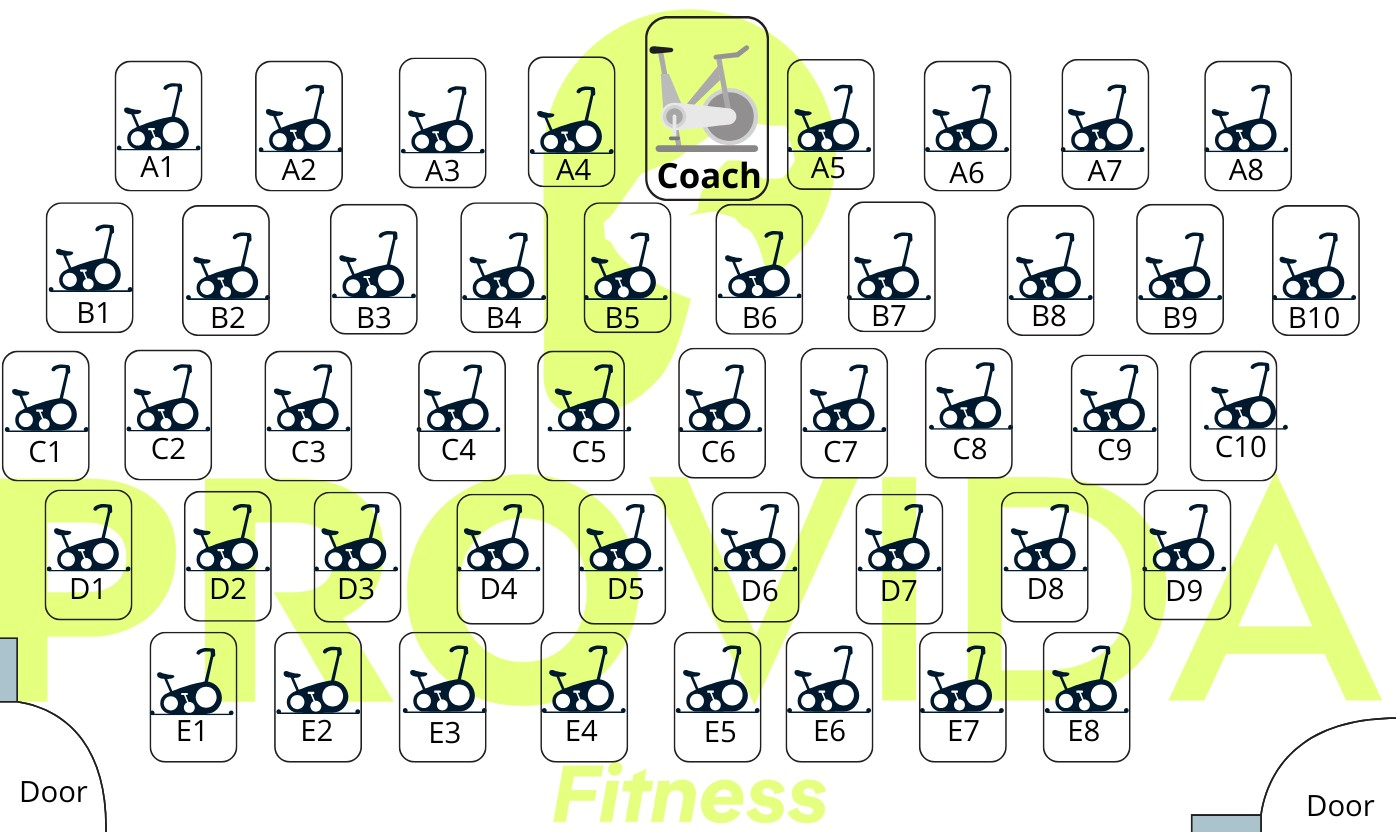
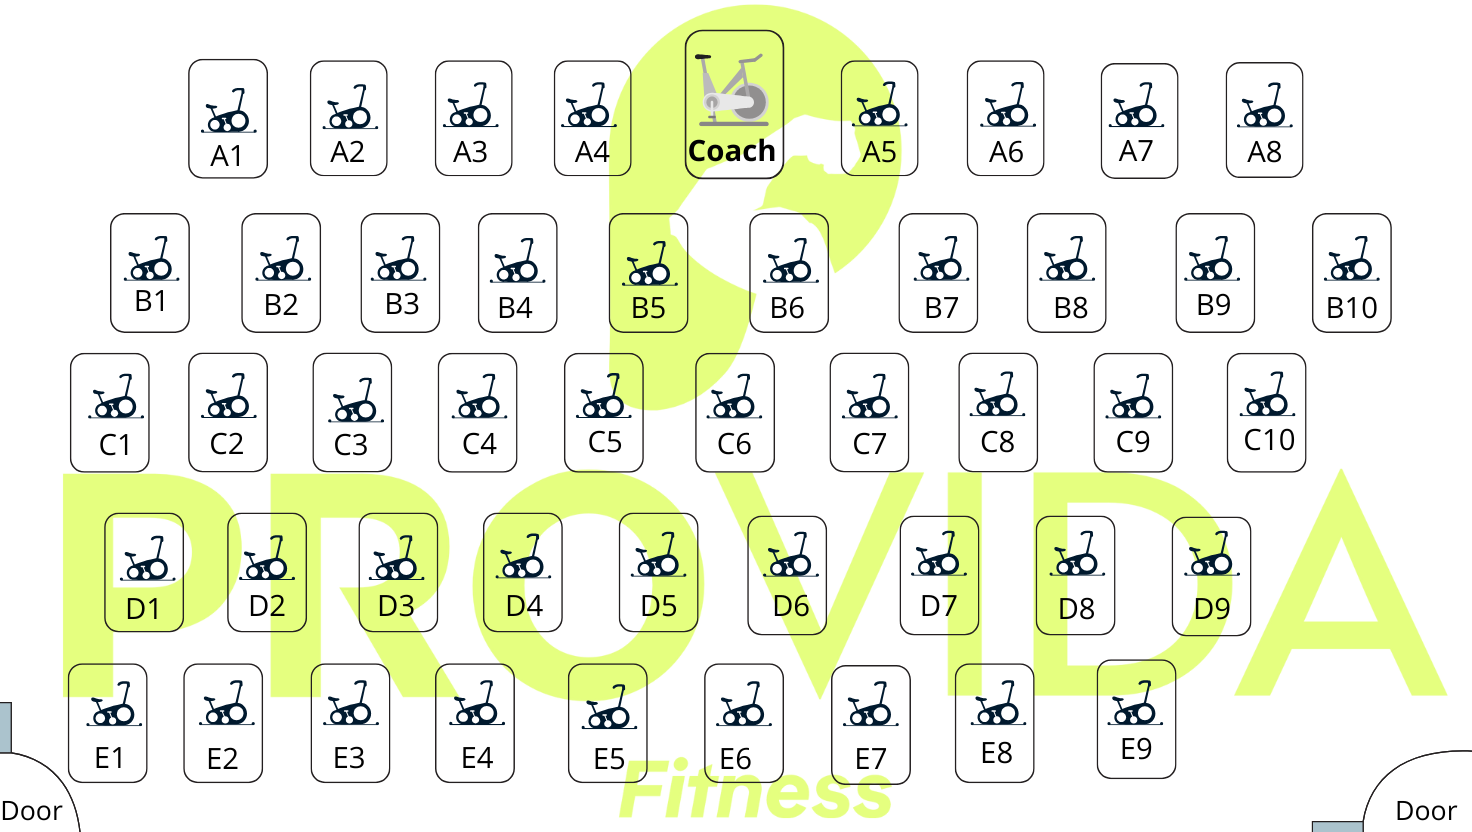
Aumento de asiento y condiciones Ingles

diff --git a/index.html b/index.html
@@ -169,98 +169,100 @@
     <h1>Reserve your seat - Provida Fitness Spinning</h1>
     
     <div class="class-info">
-        <p><strong>Horarios de clases:</strong> Martes y Jueves 18:00 | Sábados y Domingos 8:00</p>
+        <p><strong>Class Schedule:</strong> Tuesdays & Thursdays 18:00 | Saturdays & Sundays 8:00</p>
     </div>
     
     <div class="day-selector">
-        <button class="day-btn" data-day="martes" data-time="18:00">Martes 18:00</button>
-        <button class="day-btn" data-day="jueves" data-time="18:00">Jueves 18:00</button>
-        <button class="day-btn" data-day="sabado" data-time="08:00">Sábado 8:00</button>
-        <button class="day-btn" data-day="domingo" data-time="08:00">Domingo 8:00</button>
+        <button class="day-btn" data-day="martes" data-time="18:00">Tuesday 18:00</button>
+        <button class="day-btn" data-day="jueves" data-time="18:00">Thursday 18:00</button>
+        <button class="day-btn" data-day="sabado" data-time="08:00">Saturday 8:00</button>
+        <button class="day-btn" data-day="domingo" data-time="08:00">Sunday 8:00</button>
     </div>
     
     <div class="legend">
         <div class="legend-item">
             <div class="legend-color" style="background-color: rgb(64, 177, 64);"></div>
-            <span>Disponible</span>
+            <span>Available</span>
         </div>
         <div class="legend-item">
             <div class="legend-color" style="background-color: red;"></div>
-            <span>Reservado</span>
+            <span>Reserved</span>
         </div>
     </div>
 
     <!-- Condiciones del servicio -->
     <div class="service-conditions">
-    <h4>Condiciones del servicio</h4>
+    <h4>Terms of Service</h4>
     <ul>
-        <li>Al contratar el servicio de la clase de spinning está sujeto a cambios por parte del gimnasio y/o del coach reservandose el derecho de admisión a la clase</li>
-        <li>Se debe realizar el pago y confirmar al Coach para que proceda con la reserva, el gimnasio se reserva el derecho de ceder el asiento a un tercero en caso este pague antes por el asiento y confirme primero</li>
-        <li>Una vez reservado su asiento no hay opción a cambio de lugar y solo podrá situarse en la ubicación elegida</li>
-        <li>La persona que ya reservo tiene el derecho de escoger la bicicleta que desea y colocarla en su sitio reservado antes del mediodia de las clases de los martes y jueves, para las clases del fin de semana el dia anterior hasta las 21:00 pueden escoger su bicicleta y colocarla en su sitio reservado. Pasada esa hora se colocará una bicicleta al azar y no habrá opcion a cambio de máquina </li>
-        <li>Solo la persona que ya reservo puede escoger una bicicleta, en caso deseen escoger una maquina tendran que completar el pago primero</li>
-        <li>Al realizar el pago acepta las condiciones señaladas en los puntos anteriores</li>
+        <li>All sales are final. Once the reservation is paid, there is no refund option.</li>
+        <li>By booking a spinning class, you acknowledge that schedules and availability may be subject to change at the discretion of the gym and/or the coach. The gym reserves the right to deny admission to the class.</li>
+        <li>Payment must be made and confirmed with the coach to secure your reservation. The gym reserves the right to assign the seat to another person if they complete payment and confirmation first.</li>
+        <li>Once your seat is reserved, changes are not allowed. You may only use the spot you initially selected.</li>
+        <li>Reserved participants have the right to choose their bike and place it in their reserved spot. For Tuesday and Thursday classes, this must be done before noon. For weekend classes, bikes can be selected and placed in the reserved spot by 9:00 PM the day before. After this time, a bike will be assigned randomly, and changes will not be allowed.</li>
+        <li>Only those with a confirmed reservation may choose a bike. If you wish to select a bike, you must complete your payment first.</li>
+        <li>By making a payment, you accept the conditions outlined above.</li>
     </ul>
     </div>
     
     <div class="container" id="seatContainer">
         <img src="Imagen.jpg" alt="Mapa de bicicletas" style="max-width: 100%; height: auto;">
-        <div class="seat available" data-seat="A1" style="top: 8%; left: 9%;"></div>
-        <div class="seat available" data-seat="A2" style="top: 8%; left: 19%;"></div>
-        <div class="seat available" data-seat="A3" style="top: 8%; left: 29%;"></div>
-        <div class="seat available" data-seat="A4" style="top: 8%; left: 38.5%;"></div>
-        <div class="seat available" data-seat="A5" style="top: 8%; left: 57%;"></div>
-        <div class="seat available" data-seat="A6" style="top: 8%; left: 67%;"></div>
-        <div class="seat available" data-seat="A7" style="top: 8%; left: 76.5%;"></div>
-        <div class="seat available" data-seat="A8" style="top: 8%; left: 87%;"></div>
-        <div class="seat available" data-seat="B1" style="top: 25%; left: 4%;"></div>
-        <div class="seat available" data-seat="B2" style="top: 25%; left: 14%;"></div>
-        <div class="seat available" data-seat="B3" style="top: 25%; left: 24%;"></div>
-        <div class="seat available" data-seat="B4" style="top: 25%; left: 33.5%;"></div>
-        <div class="seat available" data-seat="B5" style="top: 25%; left: 42.5%;"></div>
-        <div class="seat available" data-seat="B6" style="top: 25%; left: 52%;"></div>
-        <div class="seat available" data-seat="B7" style="top: 25%; left: 61.5%;"></div>
-        <div class="seat available" data-seat="B8" style="top: 25%; left: 72.7%;"></div>
-        <div class="seat available" data-seat="B9" style="top: 25%; left: 81.8%;"></div>
-        <div class="seat available" data-seat="B10" style="top: 25%; left: 91.5%;"></div>
-        <div class="seat available" data-seat="C1" style="top: 43%; left: 1%;"></div>
-        <div class="seat available" data-seat="C2" style="top: 43%; left: 10%;"></div>
-        <div class="seat available" data-seat="C3" style="top: 43%; left: 20%;"></div>
-        <div class="seat available" data-seat="C4" style="top: 43%; left: 31%;"></div>
+        <div class="seat available" data-seat="A1" style="top: 8%; left: 13.2%;"></div>
+        <div class="seat available" data-seat="A2" style="top: 8%; left: 21.5%;"></div>
+        <div class="seat available" data-seat="A3" style="top: 8%; left: 30%;"></div>
+        <div class="seat available" data-seat="A4" style="top: 8%; left: 38.1%;"></div>
+        <div class="seat available" data-seat="A5" style="top: 8%; left: 57.5%;"></div>
+        <div class="seat available" data-seat="A6" style="top: 8%; left: 66.2%;"></div>
+        <div class="seat available" data-seat="A7" style="top: 8%; left: 75.3%;"></div>
+        <div class="seat available" data-seat="A8" style="top: 8%; left: 83.8%;"></div>
+        <div class="seat available" data-seat="B1" style="top: 26.2%; left: 8.2%;"></div>
+        <div class="seat available" data-seat="B2" style="top: 26.2%; left: 16.9%;"></div>
+        <div class="seat available" data-seat="B3" style="top: 26.2%; left: 25%;"></div>
+        <div class="seat available" data-seat="B4" style="top: 26.2%; left: 33%;"></div>
+        <div class="seat available" data-seat="B5" style="top: 26.2%; left: 42%;"></div>
+        <div class="seat available" data-seat="B6" style="top: 26.2%; left: 51.6%;"></div>
+        <div class="seat available" data-seat="B7" style="top: 26.2%; left: 61.5%;"></div>
+        <div class="seat available" data-seat="B8" style="top: 26.2%; left: 70.5%;"></div>
+        <div class="seat available" data-seat="B9" style="top: 26.2%; left: 80.5%;"></div>
+        <div class="seat available" data-seat="B10" style="top: 26.2%; left: 90%;"></div>
+        <div class="seat available" data-seat="C1" style="top: 43%; left: 5.3%;"></div>
+        <div class="seat available" data-seat="C2" style="top: 43%; left: 13.5%;"></div>
+        <div class="seat available" data-seat="C3" style="top: 43%; left: 21.7%;"></div>
+        <div class="seat available" data-seat="C4" style="top: 43%; left: 30.4%;"></div>
         <div class="seat available" data-seat="C5" style="top: 43%; left: 39%;"></div>
-        <div class="seat available" data-seat="C6" style="top: 43%; left: 49%;"></div>
-        <div class="seat available" data-seat="C7" style="top: 43%; left: 58%;"></div>
-        <div class="seat available" data-seat="C8" style="top: 43%; left: 67%;"></div>
-        <div class="seat available" data-seat="C9" style="top: 43%; left: 77.5%;"></div>
-        <div class="seat available" data-seat="C10" style="top: 43%; left: 86%;"></div>
-        <div class="seat available" data-seat="D1" style="top: 59.2%; left: 4%;"></div>
-        <div class="seat available" data-seat="D2" style="top: 59.2%; left: 14%;"></div>
-        <div class="seat available" data-seat="D3" style="top: 59.5%; left: 23%;"></div>
-        <div class="seat available" data-seat="D4" style="top: 59.7%; left: 33.2%;"></div>
-        <div class="seat available" data-seat="D5" style="top: 59.7%; left: 42%;"></div>
-        <div class="seat available" data-seat="D6" style="top: 59.7%; left: 51.5%;"></div>
-        <div class="seat available" data-seat="D7" style="top: 59.7%; left: 61.8%;"></div>
-        <div class="seat available" data-seat="D8" style="top: 59.7%; left: 72.2%;"></div>
-        <div class="seat available" data-seat="D9" style="top: 59.7%; left: 82.5%;"></div>
-        <div class="seat available" data-seat="E1" style="top: 76.5%; left: 11.5%;"></div>
-        <div class="seat available" data-seat="E2" style="top: 76.5%; left: 20.5%;"></div>
-        <div class="seat available" data-seat="E3" style="top: 76.5%; left: 29.5%;"></div>
-        <div class="seat available" data-seat="E4" style="top: 76.5%; left: 39.5%;"></div>
-        <div class="seat available" data-seat="E5" style="top: 76.5%; left: 49%;"></div>
-        <div class="seat available" data-seat="E6" style="top: 76.5%; left: 57%;"></div>
-        <div class="seat available" data-seat="E7" style="top: 76.5%; left: 66.5%;"></div>
-        <div class="seat available" data-seat="E8" style="top: 76.5%; left: 75.5%;"></div>
+        <div class="seat available" data-seat="C6" style="top: 43%; left: 48%;"></div>
+        <div class="seat available" data-seat="C7" style="top: 43%; left: 57%;"></div>
+        <div class="seat available" data-seat="C8" style="top: 43%; left: 65.7%;"></div>
+        <div class="seat available" data-seat="C9" style="top: 43%; left: 75%;"></div>
+        <div class="seat available" data-seat="C10" style="top: 43%; left: 84%;"></div>
+        <div class="seat available" data-seat="D1" style="top: 62%; left: 7.5%;"></div>
+        <div class="seat available" data-seat="D2" style="top: 62%; left: 16%;"></div>
+        <div class="seat available" data-seat="D3" style="top: 62%; left: 25%;"></div>
+        <div class="seat available" data-seat="D4" style="top: 62%; left: 33.5%;"></div>
+        <div class="seat available" data-seat="D5" style="top: 62%; left: 42.4%;"></div>
+        <div class="seat available" data-seat="D6" style="top: 62%; left: 51.2%;"></div>
+        <div class="seat available" data-seat="D7" style="top: 62%; left: 61.5%;"></div>
+        <div class="seat available" data-seat="D8" style="top: 62%; left: 71%;"></div>
+        <div class="seat available" data-seat="D9" style="top: 62%; left: 80%;"></div>
+        <div class="seat available" data-seat="E1" style="top: 80%; left: 5.3%;"></div>
+        <div class="seat available" data-seat="E2" style="top: 80%; left: 13.1%;"></div>
+        <div class="seat available" data-seat="E3" style="top: 80%; left: 21.7%;"></div>
+        <div class="seat available" data-seat="E4" style="top: 80%; left: 30.4%;"></div>
+        <div class="seat available" data-seat="E5" style="top: 80%; left: 39%;"></div>
+        <div class="seat available" data-seat="E6" style="top: 80%; left: 48.4%;"></div>
+        <div class="seat available" data-seat="E7" style="top: 80%; left: 57%;"></div>
+        <div class="seat available" data-seat="E8" style="top: 80%; left: 65.7%;"></div>
+        <div class="seat available" data-seat="E9" style="top: 80%; left: 75%;"></div>
     </div>
     
     <form id="reservaForm">
-        <h3>Añadir reserva</h3>
+        <h3>Add Reservation</h3>
         <input type="text" id="nombre" placeholder="Nombre del cliente" required>
         <input type="tel" id="telefono" placeholder="Teléfono" required>
-        <button type="submit">Confirmar Reserva</button>
+        <button type="submit">Confirm Reservation</button>
     </form>
     
     <div class="admin-panel">
-        <h2>Panel de Administración</h2>
+        <h2>Admin Panel</h2>
         <!-- Los elementos de login se insertarán aquí con JavaScript -->
     </div>
 
@@ -293,6 +295,6 @@
     <script src="script.js" type="module"></script>
 </body>
 <footer class="footer">
-    <p>Desarrollado por Jorge Regalado</p>
+    <p>Developed by Jorge Regalado</p>
 </footer>
 </html>
